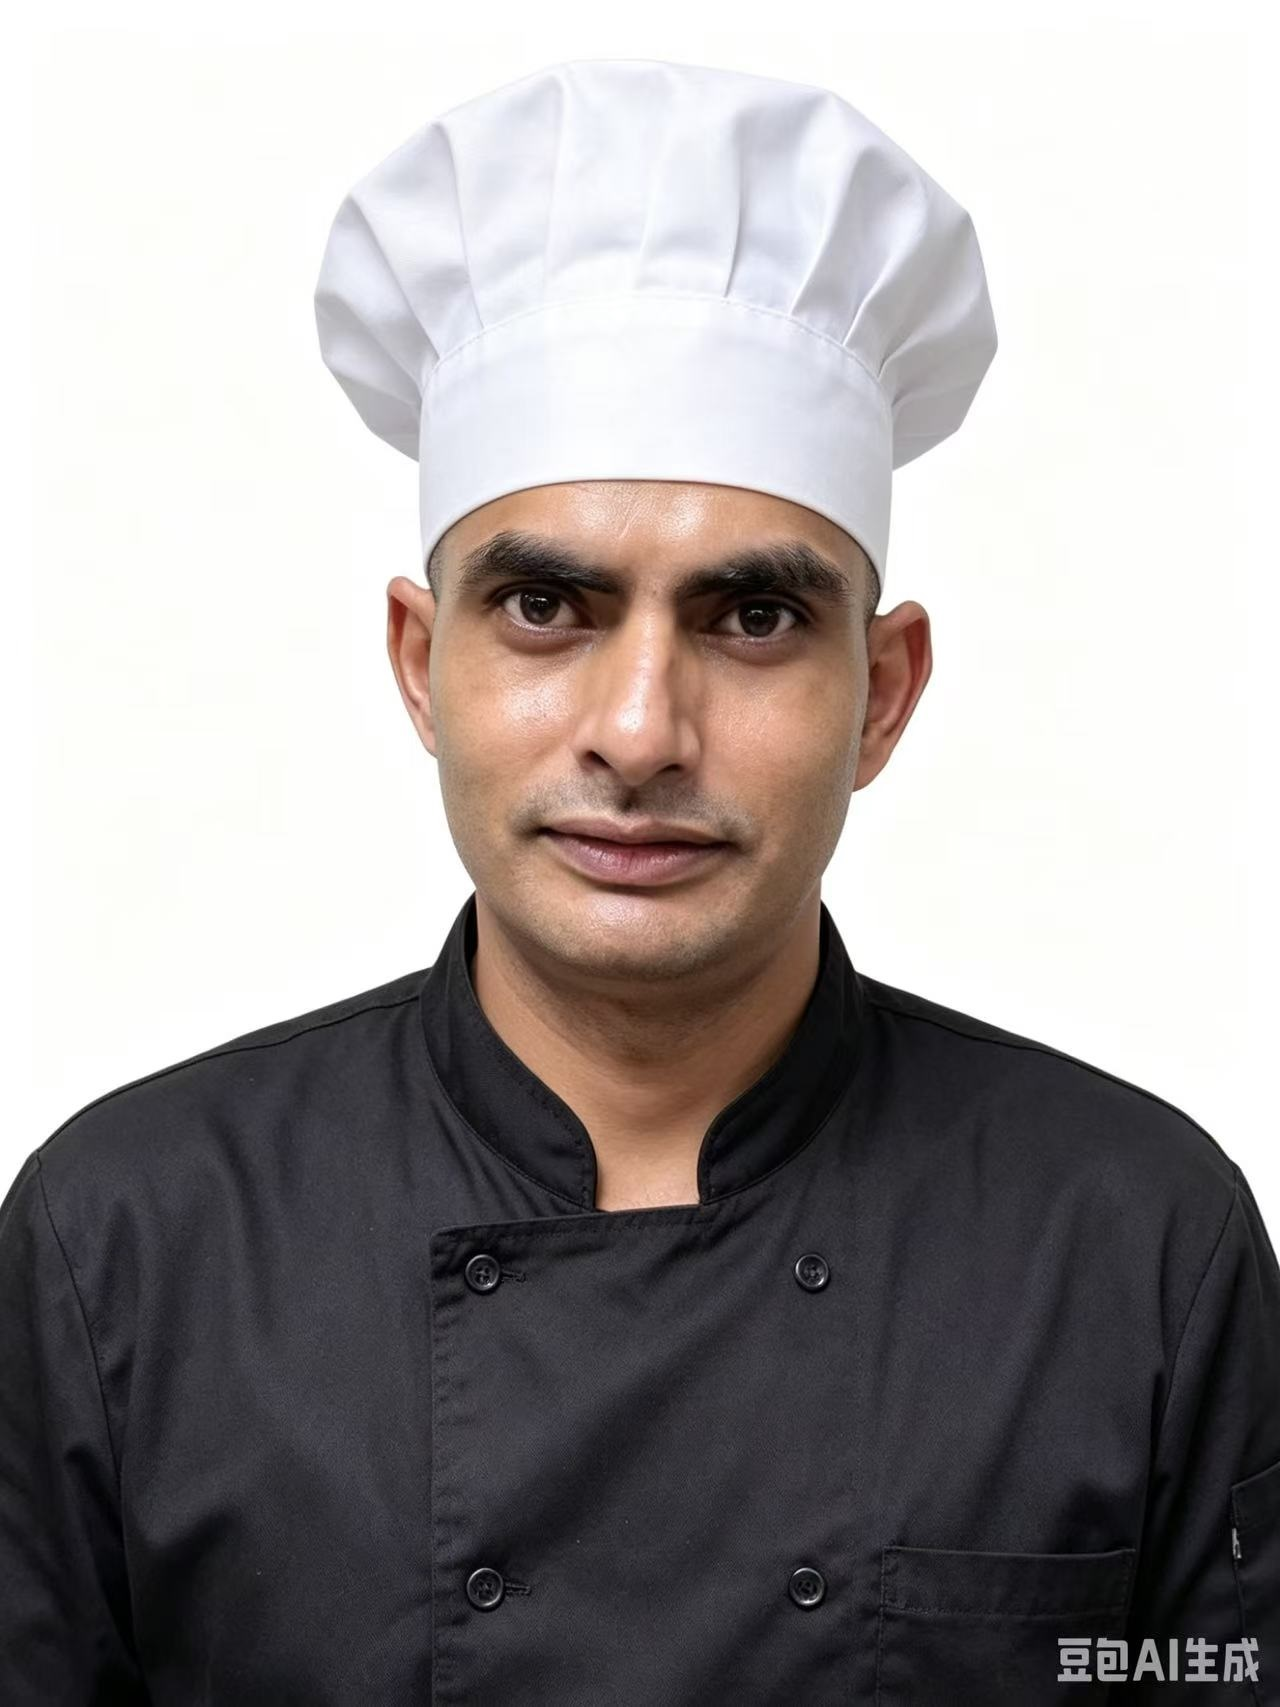
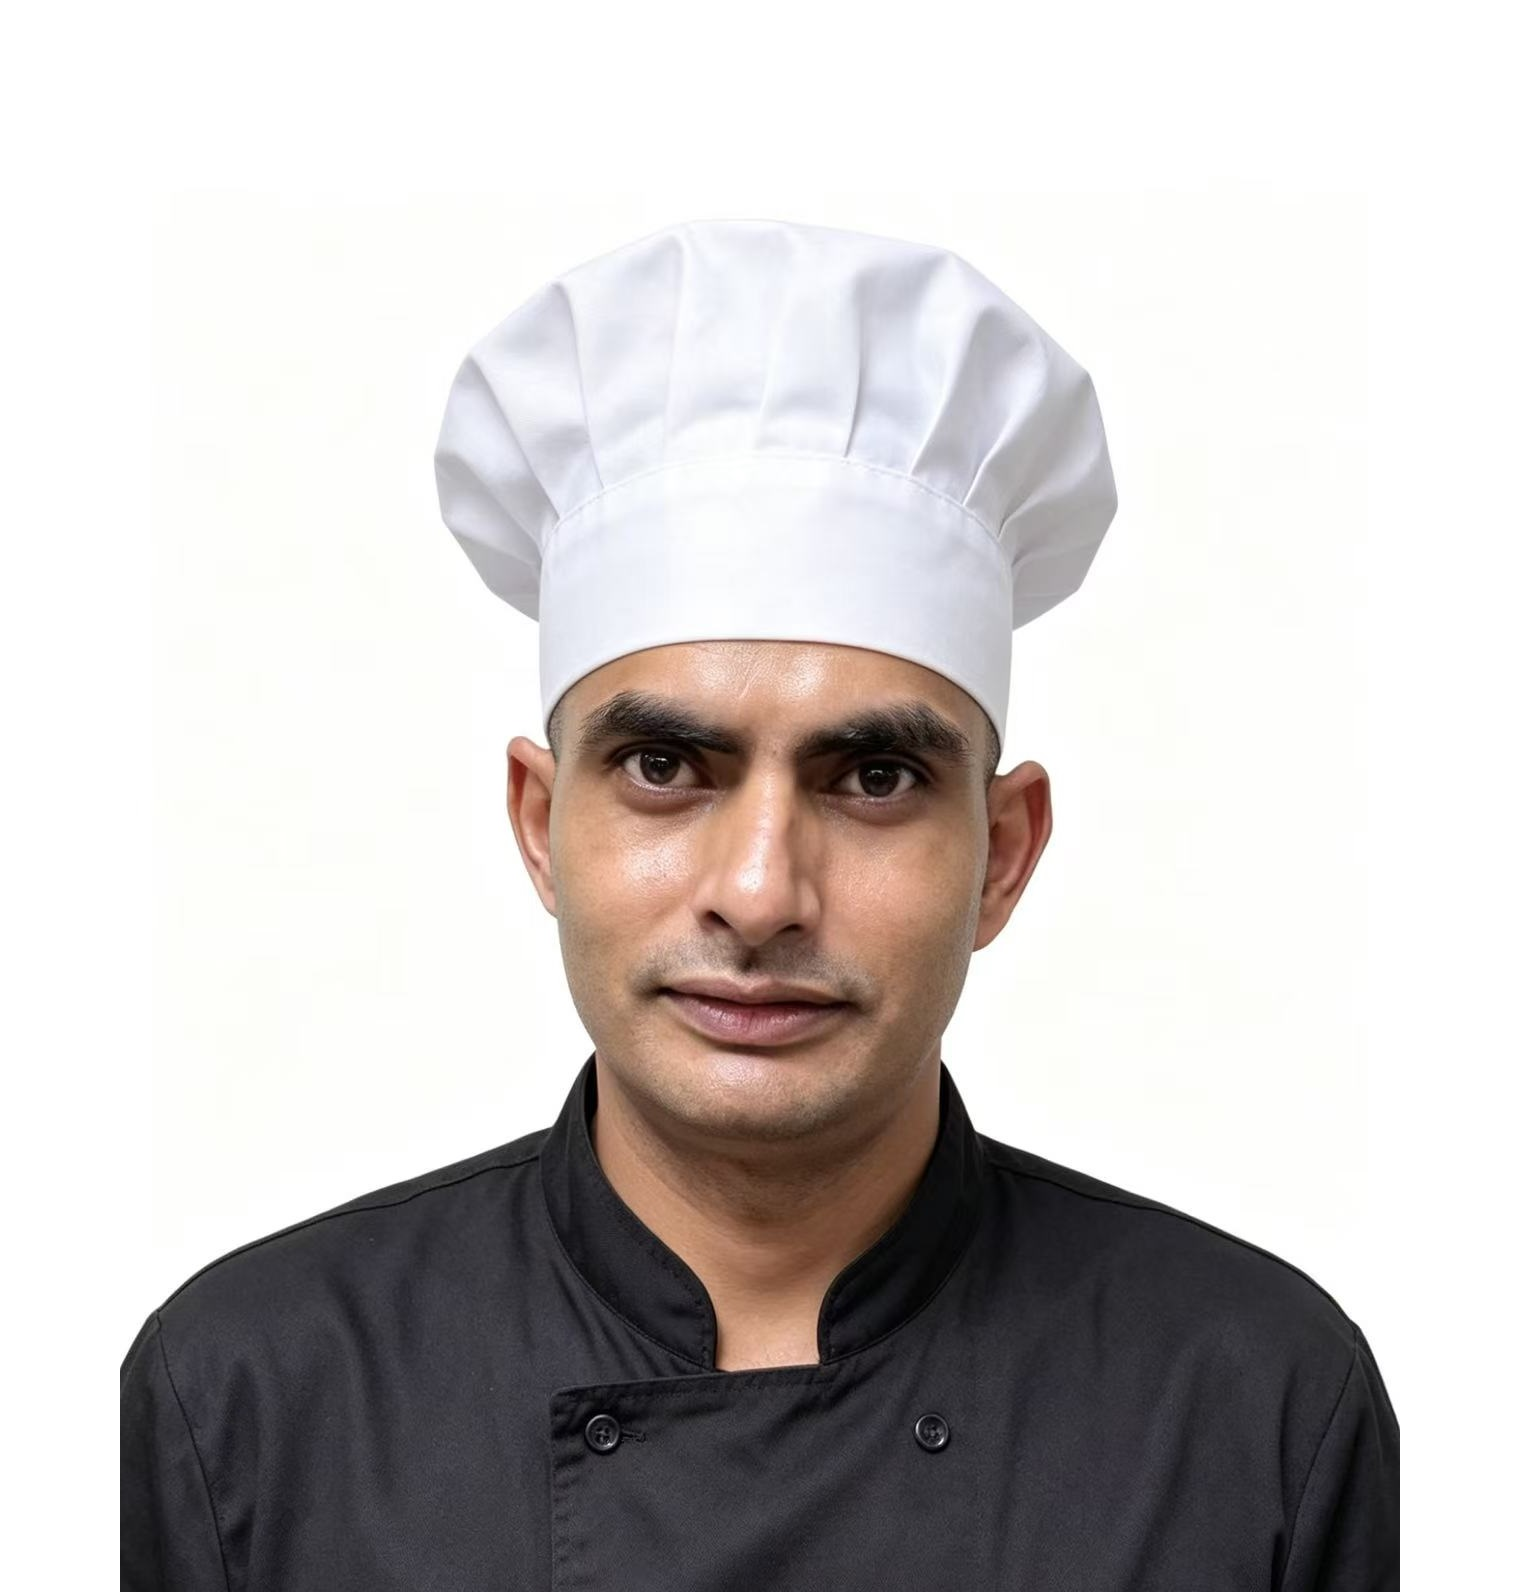
syncnee

diff --git a/src/data/branches.ts b/src/data/branches.ts
@@ -49,9 +49,9 @@ export const branches: Branch[] = [
       time: "5:00 PM – 10:00 PM",
     },
     heroImage:
-      "/gulou-1.jfif",
+      "/gulou-1.jpg",
     cardImage:
-      "/gulou.jfif",
+      "/gulou.jpg",
     mapQuery: "28 North Yunnan Street Gulou Nanjing",
     staff: buildGulousStaff(),
     menu: buildDefaultMenu(),
@@ -84,9 +84,9 @@ export const branches: Branch[] = [
       time: "5:00 PM – 10:00 PM",
     },
     heroImage:
-      "/xianlin.jfif",
+      "/xianlin.jpg",
     cardImage:
-      "/xianlin-11.jfif",
+      "/xianlin-11.jpg",
     mapQuery: "Xianlin University District Qixia Nanjing",
     staff: buildXianlinStaff(),
     menu: buildDefaultMenu(),
@@ -118,9 +118,9 @@ export const branches: Branch[] = [
       time: "5:00 PM – 10:00 PM",
     },
     heroImage:
-      "/jiangning.jfif",
+      "/jiangning.jpg",
     cardImage:
-      "/jiangning-1.jfif",
+      "/jiangning-1.jpg",
     mapQuery: "388 Tianyuan East Road Yiwu Food City Jiangning Nanjing",
     staff: buildJiangningStaff(),
     menu: buildDefaultMenu(),
@@ -153,9 +153,9 @@ export const branches: Branch[] = [
       time: "5:00 PM – 10:00 PM",
     },
     heroImage:
-      "/pukou-1.jfif",
+      "/pukou-1.jpg",
     cardImage:
-      "/pukou.jfif",
+      "/pukou.jpg",
     mapQuery: "Zhushan Road Pukou Nanjing",
     staff: buildPukouStaff(),
     menu: buildDefaultMenu(),

diff --git a/src/data/staff.ts b/src/data/staff.ts
@@ -130,13 +130,13 @@ export function buildXianlinStaff(): StaffMember[] {
     },
         {
       id: "xianlin-front3",
-      name: "Makan Singh",
+      name: "Rahul Singh Kaintura",
       role: { en: "Chef", zh: "厨师" },
       bio: {
         en: "The master of spice and simmer, expertly blending rich flavors to create the ultimate comfort curries.",
         zh: "调味与慢炖的主宰者，巧妙融合浓郁香料，打造让人无法抗拒的极品咖喱。",
       },
-      photo: "/xi7.jpg",
+      photo: "/xii7.jpg",
             isPlaceholder: true,
     },
  
@@ -164,7 +164,7 @@ export function buildXianlinStaff(): StaffMember[] {
     },
     {
       id: "xianlin-front1",
-      name: "Rahul Singh Kaintura",
+      name: "Makan Singh",
       role: { en: "Chef", zh: "厨师" },
       bio: {
         en: "A true tandoor master who runs the clay oven like clockwork, effortlessly staying on top of the non-stop rush.",